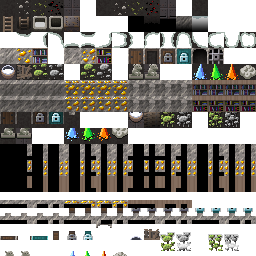
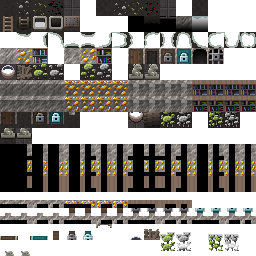
v2.3.0: substantially improved gnoll caves boulder visuals

diff --git a/core/src/main/java/com/shatteredpixel/shatteredpixeldungeon/tiles/DungeonTileSheet.java b/core/src/main/java/com/shatteredpixel/shatteredpixeldungeon/tiles/DungeonTileSheet.java
@@ -189,8 +189,9 @@ public class DungeonTileSheet {
 	public static final int FLAT_MINE_CRYSTAL         = FLAT_OTHER+12;
 	public static final int FLAT_MINE_CRYSTAL_ALT     = FLAT_OTHER+13;
 	public static final int FLAT_MINE_CRYSTAL_ALT_2   = FLAT_OTHER+14;
-	public static final int FLAT_MINE_BOULDER         = FLAT_OTHER+15;
-
+	public static final int FLAT_MINE_BOULDER         = FLAT_OTHER+12;
+	public static final int FLAT_MINE_BOULDER_ALT     = FLAT_OTHER+13;
+	public static final int FLAT_MINE_BOULDER_ALT_2   = FLAT_OTHER+14;
 
 	/**********************************************************************
 	 * Raised Tiles, Lower Layer
@@ -285,7 +286,9 @@ public class DungeonTileSheet {
 	public static final int RAISED_MINE_CRYSTAL     = RAISED_OTHER+12;
 	public static final int RAISED_MINE_CRYSTAL_ALT = RAISED_OTHER+13;
 	public static final int RAISED_MINE_CRYSTAL_ALT_2=RAISED_OTHER+14;
-	public static final int RAISED_MINE_BOULDER     = RAISED_OTHER+15;
+	public static final int RAISED_MINE_BOULDER     = RAISED_OTHER+12;
+	public static final int RAISED_MINE_BOULDER_ALT = RAISED_OTHER+13;
+	public static final int RAISED_MINE_BOULDER_ALT_2=RAISED_OTHER+14;
 
 
 	/**********************************************************************
@@ -366,7 +369,9 @@ public class DungeonTileSheet {
 	public static final int MINE_CRYSTAL_OVERHANG       = OTHER_OVERHANG+12;
 	public static final int MINE_CRYSTAL_OVERHANG_ALT   = OTHER_OVERHANG+13;
 	public static final int MINE_CRYSTAL_OVERHANG_ALT_2 = OTHER_OVERHANG+14;
-	public static final int MINE_BOULDER_OVERHANG       = OTHER_OVERHANG+15;
+	public static final int MINE_BOULDER_OVERHANG       = OTHER_OVERHANG+12;
+	public static final int MINE_BOULDER_OVERHANG_ALT   = OTHER_OVERHANG+13;
+	public static final int MINE_BOULDER_OVERHANG_ALT_2 = OTHER_OVERHANG+14;
 
 	public static final int HIGH_GRASS_UNDERHANG        = OTHER_OVERHANG+18;
 	public static final int FURROWED_UNDERHANG          = OTHER_OVERHANG+19;
@@ -460,6 +465,7 @@ public class DungeonTileSheet {
 		commonAltVisuals.put(FLAT_HIGH_GRASS,       FLAT_HIGH_GRASS_ALT);
 		commonAltVisuals.put(FLAT_FURROWED_GRASS,   FLAT_FURROWED_ALT);
 		commonAltVisuals.put(FLAT_MINE_CRYSTAL,     FLAT_MINE_CRYSTAL_ALT);
+		commonAltVisuals.put(FLAT_MINE_BOULDER,     FLAT_MINE_BOULDER_ALT);
 
 		commonAltVisuals.put(RAISED_WALL,           RAISED_WALL_ALT);
 		commonAltVisuals.put(RAISED_WALL_DECO,      RAISED_WALL_DECO_ALT);
@@ -470,9 +476,11 @@ public class DungeonTileSheet {
 		commonAltVisuals.put(HIGH_GRASS_OVERHANG,   HIGH_GRASS_OVERHANG_ALT);
 		commonAltVisuals.put(FURROWED_OVERHANG,     FURROWED_OVERHANG_ALT);
 		commonAltVisuals.put(RAISED_MINE_CRYSTAL,   RAISED_MINE_CRYSTAL_ALT);
+		commonAltVisuals.put(RAISED_MINE_BOULDER,   RAISED_MINE_BOULDER_ALT);
 		commonAltVisuals.put(HIGH_GRASS_UNDERHANG,  HIGH_GRASS_UNDERHANG_ALT);
 		commonAltVisuals.put(FURROWED_UNDERHANG,    FURROWED_UNDERHANG_ALT);
 		commonAltVisuals.put(MINE_CRYSTAL_OVERHANG, MINE_CRYSTAL_OVERHANG_ALT);
+		commonAltVisuals.put(MINE_BOULDER_OVERHANG, MINE_BOULDER_OVERHANG_ALT);
 	}
 
 	//These alt visuals trigger 5% of the time (and also override common alts when they show up)
@@ -480,8 +488,11 @@ public class DungeonTileSheet {
 	static {
 		rareAltVisuals.put(FLOOR,                   FLOOR_ALT_2);
 		rareAltVisuals.put(FLAT_MINE_CRYSTAL,       FLAT_MINE_CRYSTAL_ALT_2);
+		rareAltVisuals.put(FLAT_MINE_BOULDER,       FLAT_MINE_BOULDER_ALT_2);
 		rareAltVisuals.put(RAISED_MINE_CRYSTAL,     RAISED_MINE_CRYSTAL_ALT_2);
+		rareAltVisuals.put(RAISED_MINE_BOULDER,     RAISED_MINE_BOULDER_ALT_2);
 		rareAltVisuals.put(MINE_CRYSTAL_OVERHANG,   MINE_CRYSTAL_OVERHANG_ALT_2);
+		rareAltVisuals.put(MINE_BOULDER_OVERHANG,   MINE_BOULDER_OVERHANG_ALT_2);
 	}
 
 	public static int getVisualWithAlts(int visual, int pos){

diff --git a/core/src/main/java/com/shatteredpixel/shatteredpixeldungeon/tiles/DungeonWallsTilemap.java b/core/src/main/java/com/shatteredpixel/shatteredpixeldungeon/tiles/DungeonWallsTilemap.java
@@ -95,7 +95,7 @@ public class DungeonWallsTilemap extends DungeonTilemap {
 		} else if (pos + mapWidth < size && map[pos+mapWidth] == Terrain.MINE_CRYSTAL){
 			return DungeonTileSheet.getVisualWithAlts(DungeonTileSheet.MINE_CRYSTAL_OVERHANG, pos + mapWidth);
 		} else if (pos + mapWidth < size && map[pos+mapWidth] == Terrain.MINE_BOULDER){
-			return DungeonTileSheet.MINE_BOULDER_OVERHANG;
+			return DungeonTileSheet.getVisualWithAlts(DungeonTileSheet.MINE_BOULDER_OVERHANG, pos + mapWidth);
 		} else if (pos + mapWidth < size && map[pos+mapWidth] == Terrain.ALCHEMY){
 			return DungeonTileSheet.ALCHEMY_POT_OVERHANG;
 		} else if (pos + mapWidth < size && map[pos+mapWidth] == Terrain.BARRICADE){

diff --git a/core/src/main/java/com/shatteredpixel/shatteredpixeldungeon/Assets.java b/core/src/main/java/com/shatteredpixel/shatteredpixeldungeon/Assets.java
@@ -43,6 +43,9 @@ public class Assets {
 		public static final String TILES_CITY   = "environment/tiles_city.png";
 		public static final String TILES_HALLS  = "environment/tiles_halls.png";
 
+		public static final String TILES_CAVES_CRYSTAL  = "environment/tiles_caves_crystal.png";
+		public static final String TILES_CAVES_GNOLL    = "environment/tiles_caves_gnoll.png";
+
 		public static final String WATER_SEWERS = "environment/water0.png";
 		public static final String WATER_PRISON = "environment/water1.png";
 		public static final String WATER_CAVES  = "environment/water2.png";

diff --git a/core/src/main/java/com/shatteredpixel/shatteredpixeldungeon/levels/MiningLevel.java b/core/src/main/java/com/shatteredpixel/shatteredpixeldungeon/levels/MiningLevel.java
@@ -70,6 +70,19 @@ import java.util.Arrays;
 public class MiningLevel extends CavesLevel {
 
 	@Override
+	public String tilesTex() {
+		switch (Blacksmith.Quest.Type()){
+			default:
+				return Assets.Environment.TILES_CAVES;
+			case Blacksmith.Quest.CRYSTAL:
+				return Assets.Environment.TILES_CAVES_CRYSTAL;
+			case Blacksmith.Quest.GNOLL:
+				return Assets.Environment.TILES_CAVES_GNOLL;
+		}
+
+	}
+
+	@Override
 	public void playLevelMusic() {
 		Music.INSTANCE.play(Assets.Music.CAVES_TENSE, true);
 	}

diff --git a/core/src/main/java/com/shatteredpixel/shatteredpixeldungeon/tiles/DungeonTerrainTilemap.java b/core/src/main/java/com/shatteredpixel/shatteredpixeldungeon/tiles/DungeonTerrainTilemap.java
@@ -75,7 +75,9 @@ public class DungeonTerrainTilemap extends DungeonTilemap {
 						DungeonTileSheet.RAISED_MINE_CRYSTAL,
 						pos);
 			} else if (tile == Terrain.MINE_BOULDER) {
-				return DungeonTileSheet.RAISED_MINE_BOULDER;
+				return DungeonTileSheet.getVisualWithAlts(
+						DungeonTileSheet.RAISED_MINE_BOULDER,
+						pos);
 			} else if (tile == Terrain.ALCHEMY) {
 				return DungeonTileSheet.RAISED_ALCHEMY_POT;
 			} else if (tile == Terrain.BARRICADE) {
